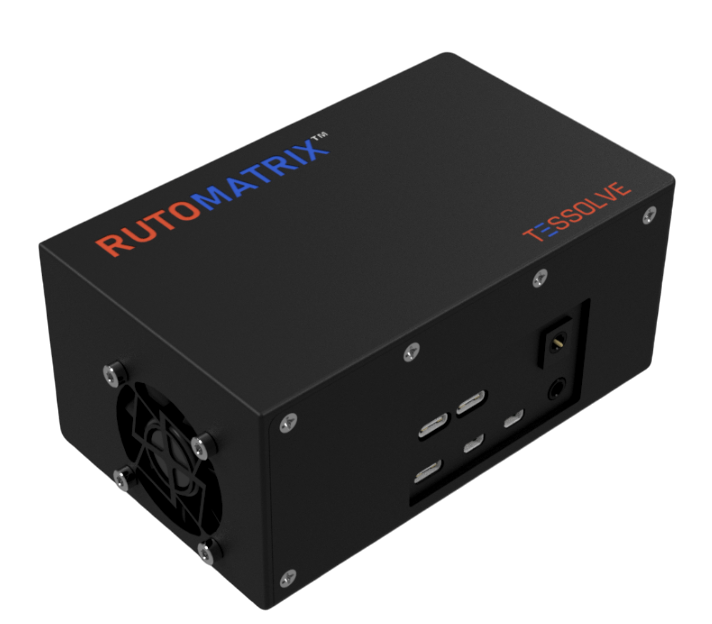
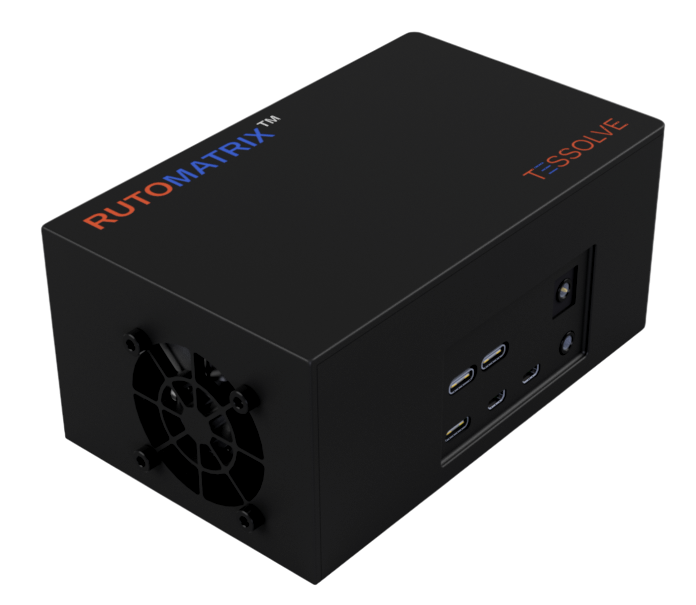
changes made in images folder

diff --git a/src/components/Auth/LoginSignupPage.jsx b/src/components/Auth/LoginSignupPage.jsx
@@ -2,11 +2,8 @@ import React, { useState, useEffect, useRef } from "react";
 import "./LoginSignupPage.css";
 import ThreeDModel from "./ThreeDModel";
 import {
-  User,
-  Lock,
   ArrowRight,
   SquareArrowOutUpRight,
-  AlertCircle,
   ChevronUp,
   ChevronRight,
   ChevronLeft,
@@ -15,7 +12,6 @@ import {
   ChartNoAxesCombined,
   Split,
   X,
-  Box,
   LassoSelect,
   Rotate3d,
 } from "lucide-react";
@@ -27,26 +23,21 @@ import sl3 from "../../assets/bg3_.png";
 import sl4 from "../../assets/Sl4.png";
 import sl5 from "../../assets/Sl5.png";
 import logo from "../../assets/RutoMatrix_Nonbackground.png";
-import tes_logo from "../../assets/tessolve.png";
+import tes_logo from "../../assets/images/tessolve.png";
 import view1 from "../../assets/images/Top1.png";
 import view2 from "../../assets/images/Fan1.png";
-import view3 from "../../assets/images/Ports.png";
-import view5 from "../../assets/images/Sideview.png";
+import view3 from "../../assets/images/Ports1.png";
+import view5 from "../../assets/images/Sideview1.png";
 
 const LoginSignupPage = ({ setIsAuthenticated }) => {
   const [activeSection, setActiveSection] = useState("hero");
   const [view, setView] = useState("isometric");
   const [scrolled, setScrolled] = useState(false);
-  const [username, setUsername] = useState("");
   const [atTop, setAtTop] = useState(true);
   const [currentSlide, setCurrentSlide] = useState(0);
   const slideInterval = useRef();
-  const [password, setPassword] = useState("");
-  const [error, setError] = useState("");
   const [showLoginOverlay, setShowLoginOverlay] = useState(false);
   const [show3DModel, setShow3DModel] = useState(false);
-  const [isLoading, setIsLoading] = useState(false);
-  const navigate = useNavigate();
   const [dragHintVisible, setDragHintVisible] = useState(true);
   const featureSlides = [
     {
